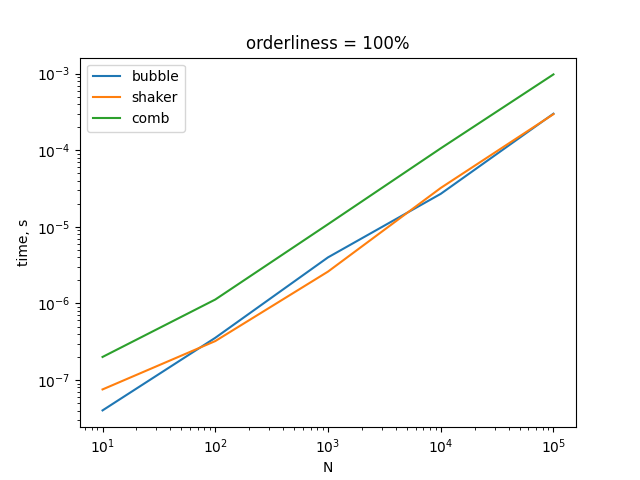
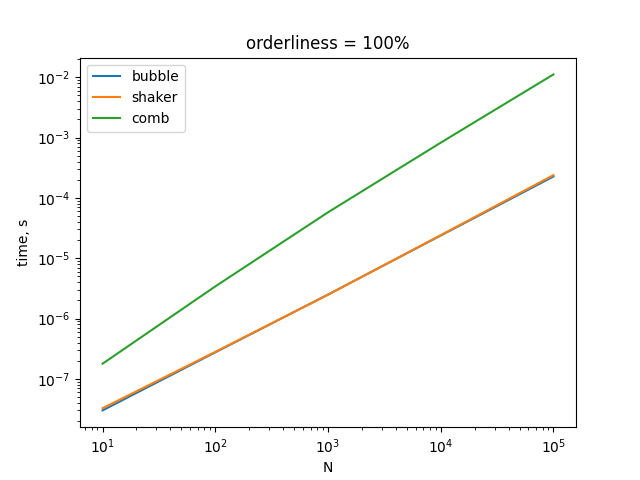
fix combSort

diff --git a/problems/quadratic_sorting/benchmarks.py b/problems/quadratic_sorting/benchmarks.py
@@ -58,6 +58,7 @@ def get_benchmark_of_orderliness(N, mc):
     plt.plot(os, comb_measurements, label="comb")
     plt.xlabel("orderliness, %")
     plt.ylabel("time, s")
+    plt.yscale("log")
     plt.title(f"N = {N}")
     plt.legend()
     plt.savefig(f"benchmarks/N{N}o.png")
@@ -65,12 +66,12 @@ def get_benchmark_of_orderliness(N, mc):
     plt.clf()
 
 os.makedirs("benchmarks", exist_ok=True)
-get_benchmark_of_N(0)
-get_benchmark_of_N(0.2)
-get_benchmark_of_N(0.4)
-get_benchmark_of_N(0.6)
-get_benchmark_of_N(0.8)
-get_benchmark_of_N(1.0, 100)
-# get_benchmark_of_orderliness(100, 10000)
-# get_benchmark_of_orderliness(1000, 100)
-# get_benchmark_of_orderliness(10000, 1)
+# get_benchmark_of_N(0)
+# get_benchmark_of_N(0.2)
+# get_benchmark_of_N(0.4)
+# get_benchmark_of_N(0.6)
+# get_benchmark_of_N(0.8)
+# get_benchmark_of_N(1.0, 100)
+get_benchmark_of_orderliness(100, 10000)
+get_benchmark_of_orderliness(1000, 100)
+get_benchmark_of_orderliness(10000, 1)

diff --git a/algorithms/comb_sort.h b/algorithms/comb_sort.h
@@ -15,17 +15,16 @@ public:
     static void sort(RandomIt first, RandomIt last, CompFunc compare)
     {
         assert(first < last);
-        assert(SHRINK_FACTOR > 1.0f);
 
         bool were_swapped = false;
-        size_t step = (last - first) - 1;
+        size_t step = last - first;
         while((step > 1) || were_swapped)
         {
             step = static_cast<size_t>(step / SHRINK_FACTOR);
             if(step < 1) 
                 step = 1;
             were_swapped = false;
-            for(RandomIt it = first; (it + step) < last; it += step)
+            for(RandomIt it = first; (it + step) < last; ++it)
             {
                 RandomIt next = it + step;
                 if(compare(*it, *next))
